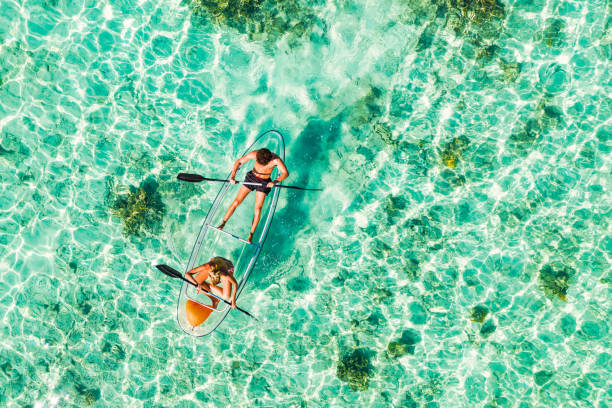
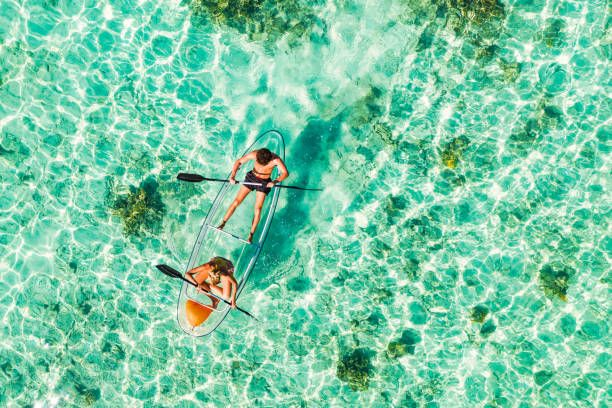
Tezlikni oshirish: video defer + rasmlarni optimallashtirish
- Hero video sahifa yuklangandan keyin yuklanadi (poster darrov ko'rinadi)
- Mobil/sekin internetda 13MB video umuman yuklanmaydi (faqat poster)
- logo.png 383K->60K, certificate 1.4M->108K (jpg), office 425K->285K
- certificate/office rasmlariga lazy-loading

diff --git a/index.html b/index.html
@@ -8,7 +8,7 @@
   <link rel="preconnect" href="https://fonts.googleapis.com" />
   <link rel="preconnect" href="https://fonts.gstatic.com" crossorigin />
   <link href="https://fonts.googleapis.com/css2?family=Poppins:wght@400;500;600;700;800&family=Inter:wght@400;500;600&display=swap" rel="stylesheet" />
-  <link rel="stylesheet" href="css/styles.css?v=26" />
+  <link rel="stylesheet" href="css/styles.css?v=28" />
 </head>
 <body>
 
@@ -16,7 +16,7 @@
   <header class="header" id="top">
     <div class="container header__inner">
       <a href="#top" class="logo">
-        <img class="logo__img" src="assets/logo.png?v=26" alt="City Trips — Travel. Trusted. Together." />
+        <img class="logo__img" src="assets/logo.png?v=28" alt="City Trips — Travel. Trusted. Together." />
       </a>
 
       <nav class="nav" id="nav">
@@ -48,8 +48,9 @@
   <!-- ===================== HERO ===================== -->
   <section class="hero">
     <!-- Hero fon videosi (Maldiv orollari). Poster = assets/hero.jpg (video yuklanguncha) -->
-    <video class="hero__video" autoplay muted loop playsinline poster="assets/hero.jpg">
-      <source src="assets/hero.mp4" type="video/mp4" />
+    <video class="hero__video" id="heroVideo" autoplay muted loop playsinline preload="none" poster="assets/hero.jpg">
+      <!-- Video sahifa yuklangandan keyin (JS orqali) yuklanadi — tez ochilish uchun -->
+      <source data-src="assets/hero.mp4" type="video/mp4" />
     </video>
     <div class="hero__overlay"></div>
 
@@ -170,7 +171,7 @@
       </div>
       <figure class="about__cert">
         <!-- Guvohnoma originalini assets/certificate.jpg ga saqlang -->
-        <img src="assets/certificate.png" alt="City Trips — davlat ro‘yxatidan o‘tkazilganlik guvohnomasi"
+        <img src="assets/certificate.jpg" alt="City Trips — davlat ro‘yxatidan o‘tkazilganlik guvohnomasi" loading="lazy"
              onerror="this.onerror=null;this.src='assets/certificate.svg'" />
         <figcaption data-i18n="about_cert">Official state registration certificate</figcaption>
       </figure>
@@ -179,7 +180,7 @@
     <!-- OFFICE + MAP -->
     <div class="container office">
       <figure class="office__img">
-        <img src="assets/office.jpg" alt="City Trips — ofis" />
+        <img src="assets/office.jpg" alt="City Trips — ofis" loading="lazy" />
       </figure>
       <div class="office__info">
         <h3 class="office__title" data-i18n="office_title">Our office</h3>
@@ -198,7 +199,7 @@
     <div class="container footer__grid">
       <div class="footer__col">
         <a href="#top" class="logo logo--footer">
-          <img class="logo__img" src="assets/logo.png?v=26" alt="City Trips" />
+          <img class="logo__img" src="assets/logo.png?v=28" alt="City Trips" />
         </a>
         <p class="footer__about" data-i18n="footer_about">Your trusted travel partner for unforgettable journeys across the East and Turkey.</p>
       </div>
@@ -273,8 +274,8 @@
     </div>
   </div>
 
-  <script src="js/translations.js?v=26"></script>
-  <script src="js/tours.js?v=26"></script>
-  <script src="js/main.js?v=26"></script>
+  <script src="js/translations.js?v=28"></script>
+  <script src="js/tours.js?v=28"></script>
+  <script src="js/main.js?v=28"></script>
 </body>
 </html>

diff --git a/js/main.js b/js/main.js
@@ -211,3 +211,19 @@ window.addEventListener("resize", ()=>{ clearTimeout(window.__ctrlsTO); window._
 /* ================= INIT ================= */
 document.getElementById("year").textContent = new Date().getFullYear();
 applyLang(LANG);
+
+/* Hero videosini sahifa yuklangandan keyin yuklaymiz — tez ochilish uchun */
+function loadHeroVideo(){
+  const v = document.getElementById("heroVideo");
+  const s = v && v.querySelector("source[data-src]");
+  if(!s) return;
+  // Mobil yoki sekin/tejamkor internetda og'ir videoni yuklamaymiz — poster rasm qoladi
+  const c = navigator.connection || {};
+  const skip = window.innerWidth <= 760 || c.saveData === true || (c.effectiveType && /(^|\b)(slow-2g|2g|3g)\b/.test(c.effectiveType));
+  if(skip) return;
+  s.src = s.dataset.src; s.removeAttribute("data-src");
+  v.load();
+  const p = v.play(); if(p && p.catch) p.catch(()=>{});
+}
+if(document.readyState === "complete") loadHeroVideo();
+else window.addEventListener("load", ()=>setTimeout(loadHeroVideo, 300));
